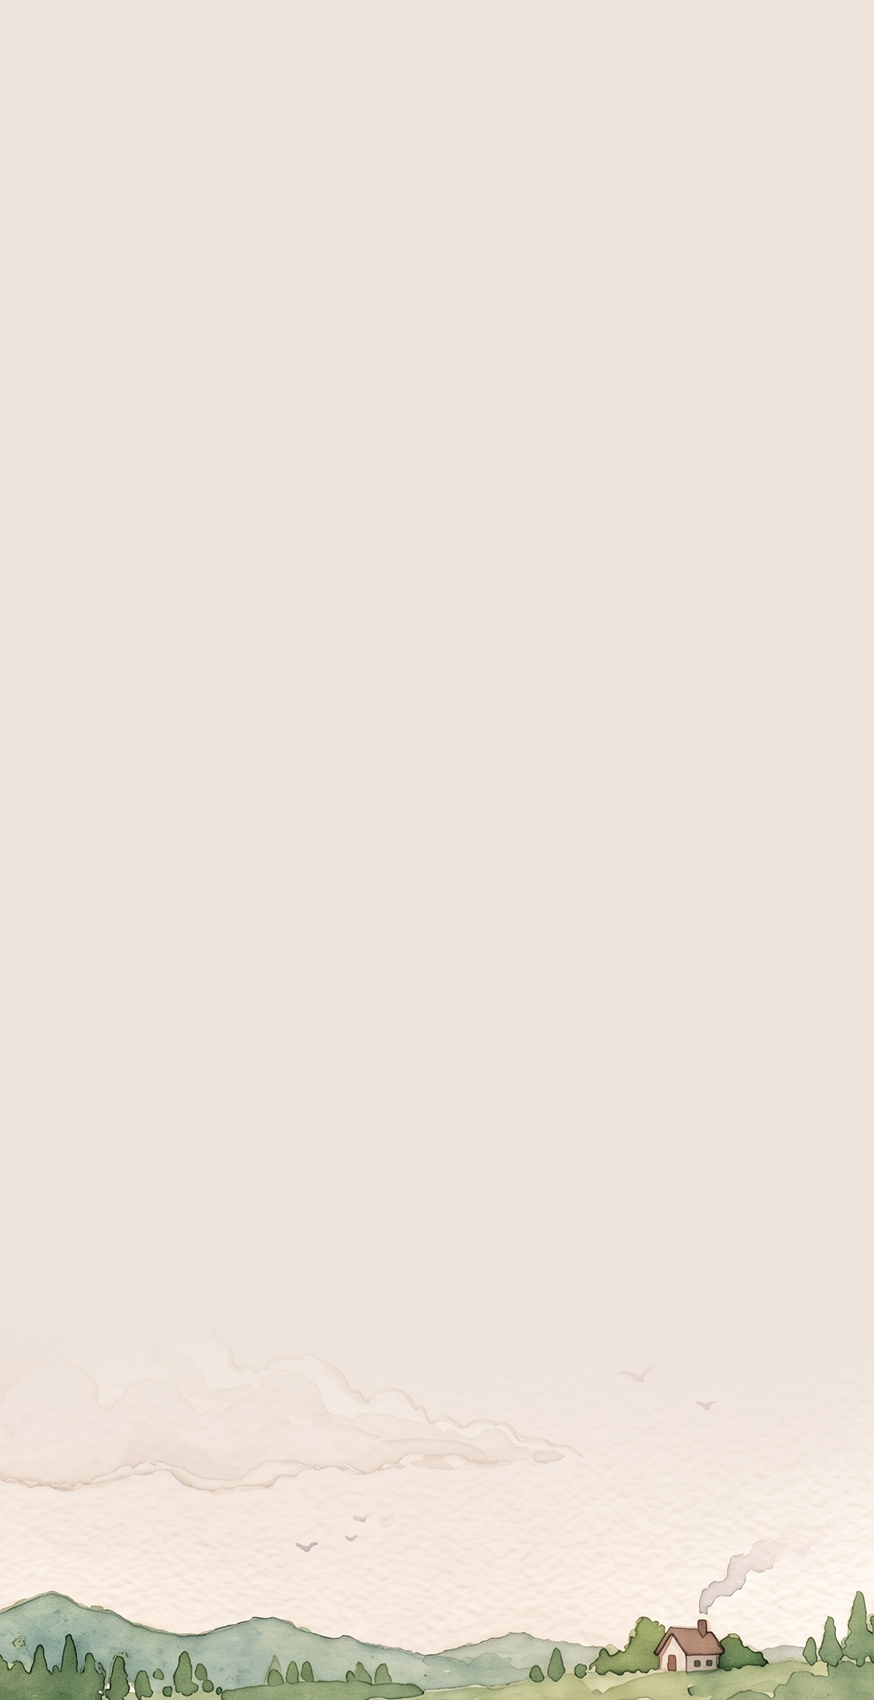
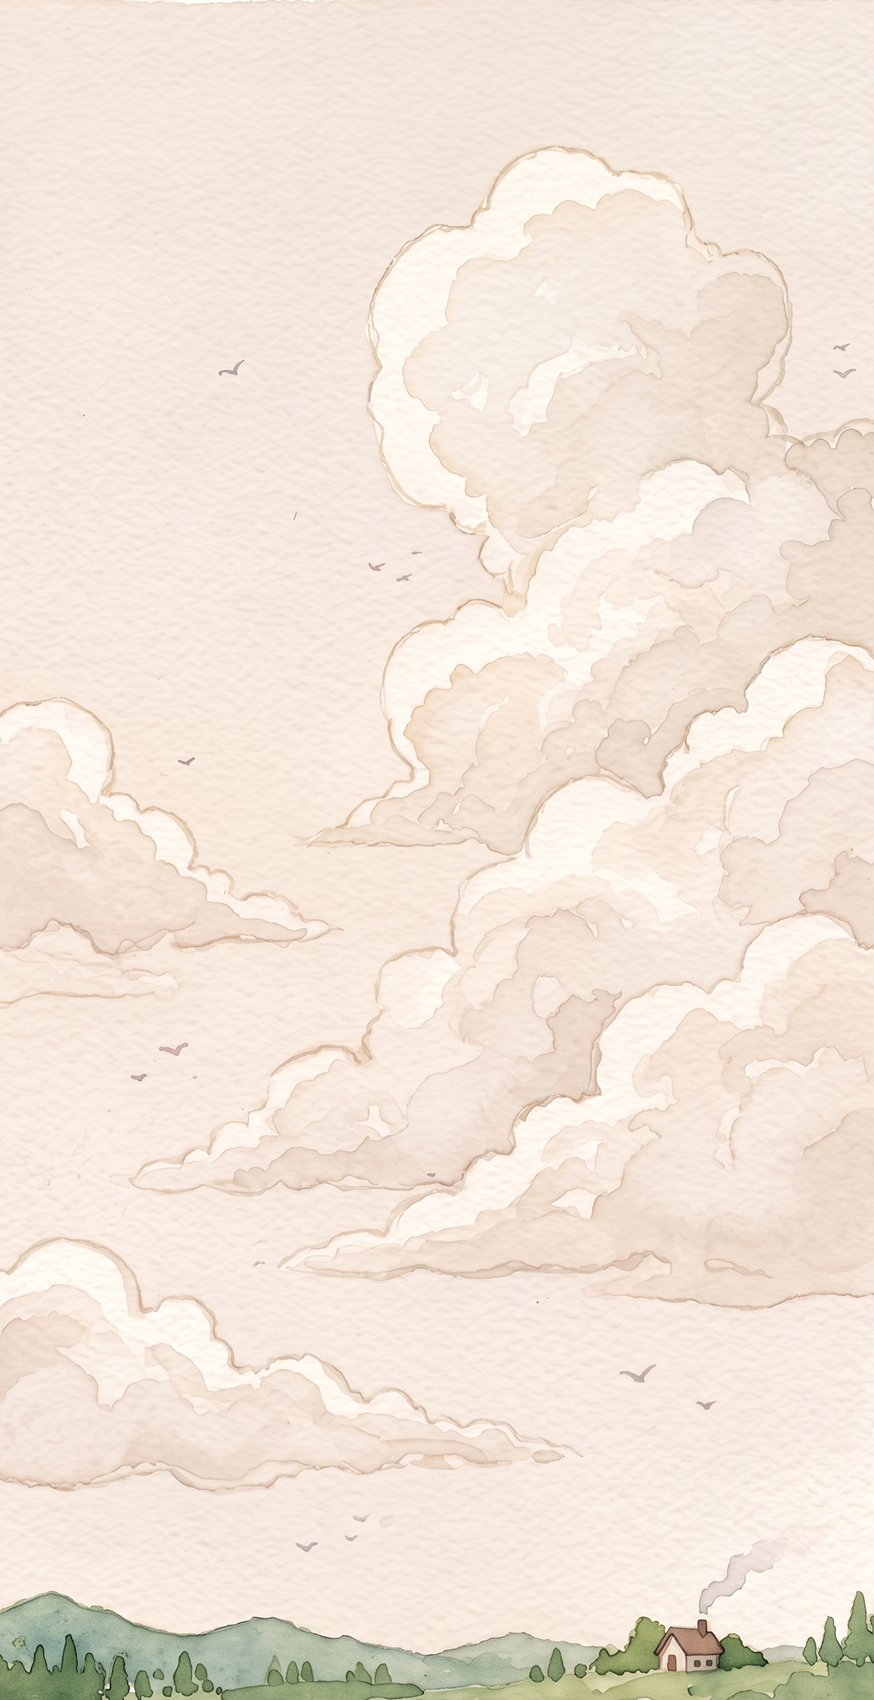
img

diff --git a/style.css b/style.css
@@ -1549,7 +1549,7 @@ html, body {
 
 /* фоновые изображения секций — только на мобильных; на десктопе остаётся сплошной тон */
 @media (max-width: 600px) {
-  #vibe, #quiz, #quiz2, #quiz3, #quiz4, #quiz5, #shelf {
+  #vibe, #quiz, #quiz2, #quiz3, #quiz4, #quiz5 {
     background-repeat: no-repeat;
     background-position: center bottom;
     background-size: 100% auto;
@@ -1560,5 +1560,12 @@ html, body {
   #quiz3 { background-image: url("img/photo-anime/bg-questions-3.png"); }
   #quiz4 { background-image: url("img/photo-anime/bg-questions-4.png"); }
   #quiz5 { background-image: url("img/photo-anime/bg-questions-5.png"); }
-  #shelf { background-image: url("img/photo-anime/bg-distraction.png"); }
+
+  /* отвлекалочка — чистое изображение на весь фон, без заливки */
+  #shelf {
+    background-image: url("img/photo-anime/bg-distraction.png");
+    background-repeat: no-repeat;
+    background-position: center bottom;
+    background-size: cover;
+  }
 }

diff --git a/index.html b/index.html
@@ -10,7 +10,7 @@
   <link rel="preload" as="image" href="img/mobile-img/one-fon-version.webp" media="(max-width: 600px)" fetchpriority="high">
   <link rel="preload" as="image" href="img/photoshop-img/one-fon.webp" media="(min-width: 601px)" fetchpriority="high">
   <link href="https://fonts.googleapis.com/css2?family=Cormorant:wght@400;500;600&family=Cormorant+Garamond:wght@400;600&family=Inter:wght@400;500;600&family=Lobster&family=Manrope:wght@400;500;600&family=Marck+Script&family=Playfair+Display:wght@400;500;600;700&family=Quicksand:wght@500;700&family=Rubik:wght@400;500;600&display=swap" rel="stylesheet">
-  <link rel="stylesheet" href="style.css?v=68">
+  <link rel="stylesheet" href="style.css?v=69">
 </head>
 
 <body>
@@ -418,7 +418,7 @@
   </div>
 
   <script src="https://cdn.jsdelivr.net/npm/gsap@3.12.5/dist/gsap.min.js"></script>
-  <script src="script.js?v=68"></script>
+  <script src="script.js?v=69"></script>
 
 </body>
 
